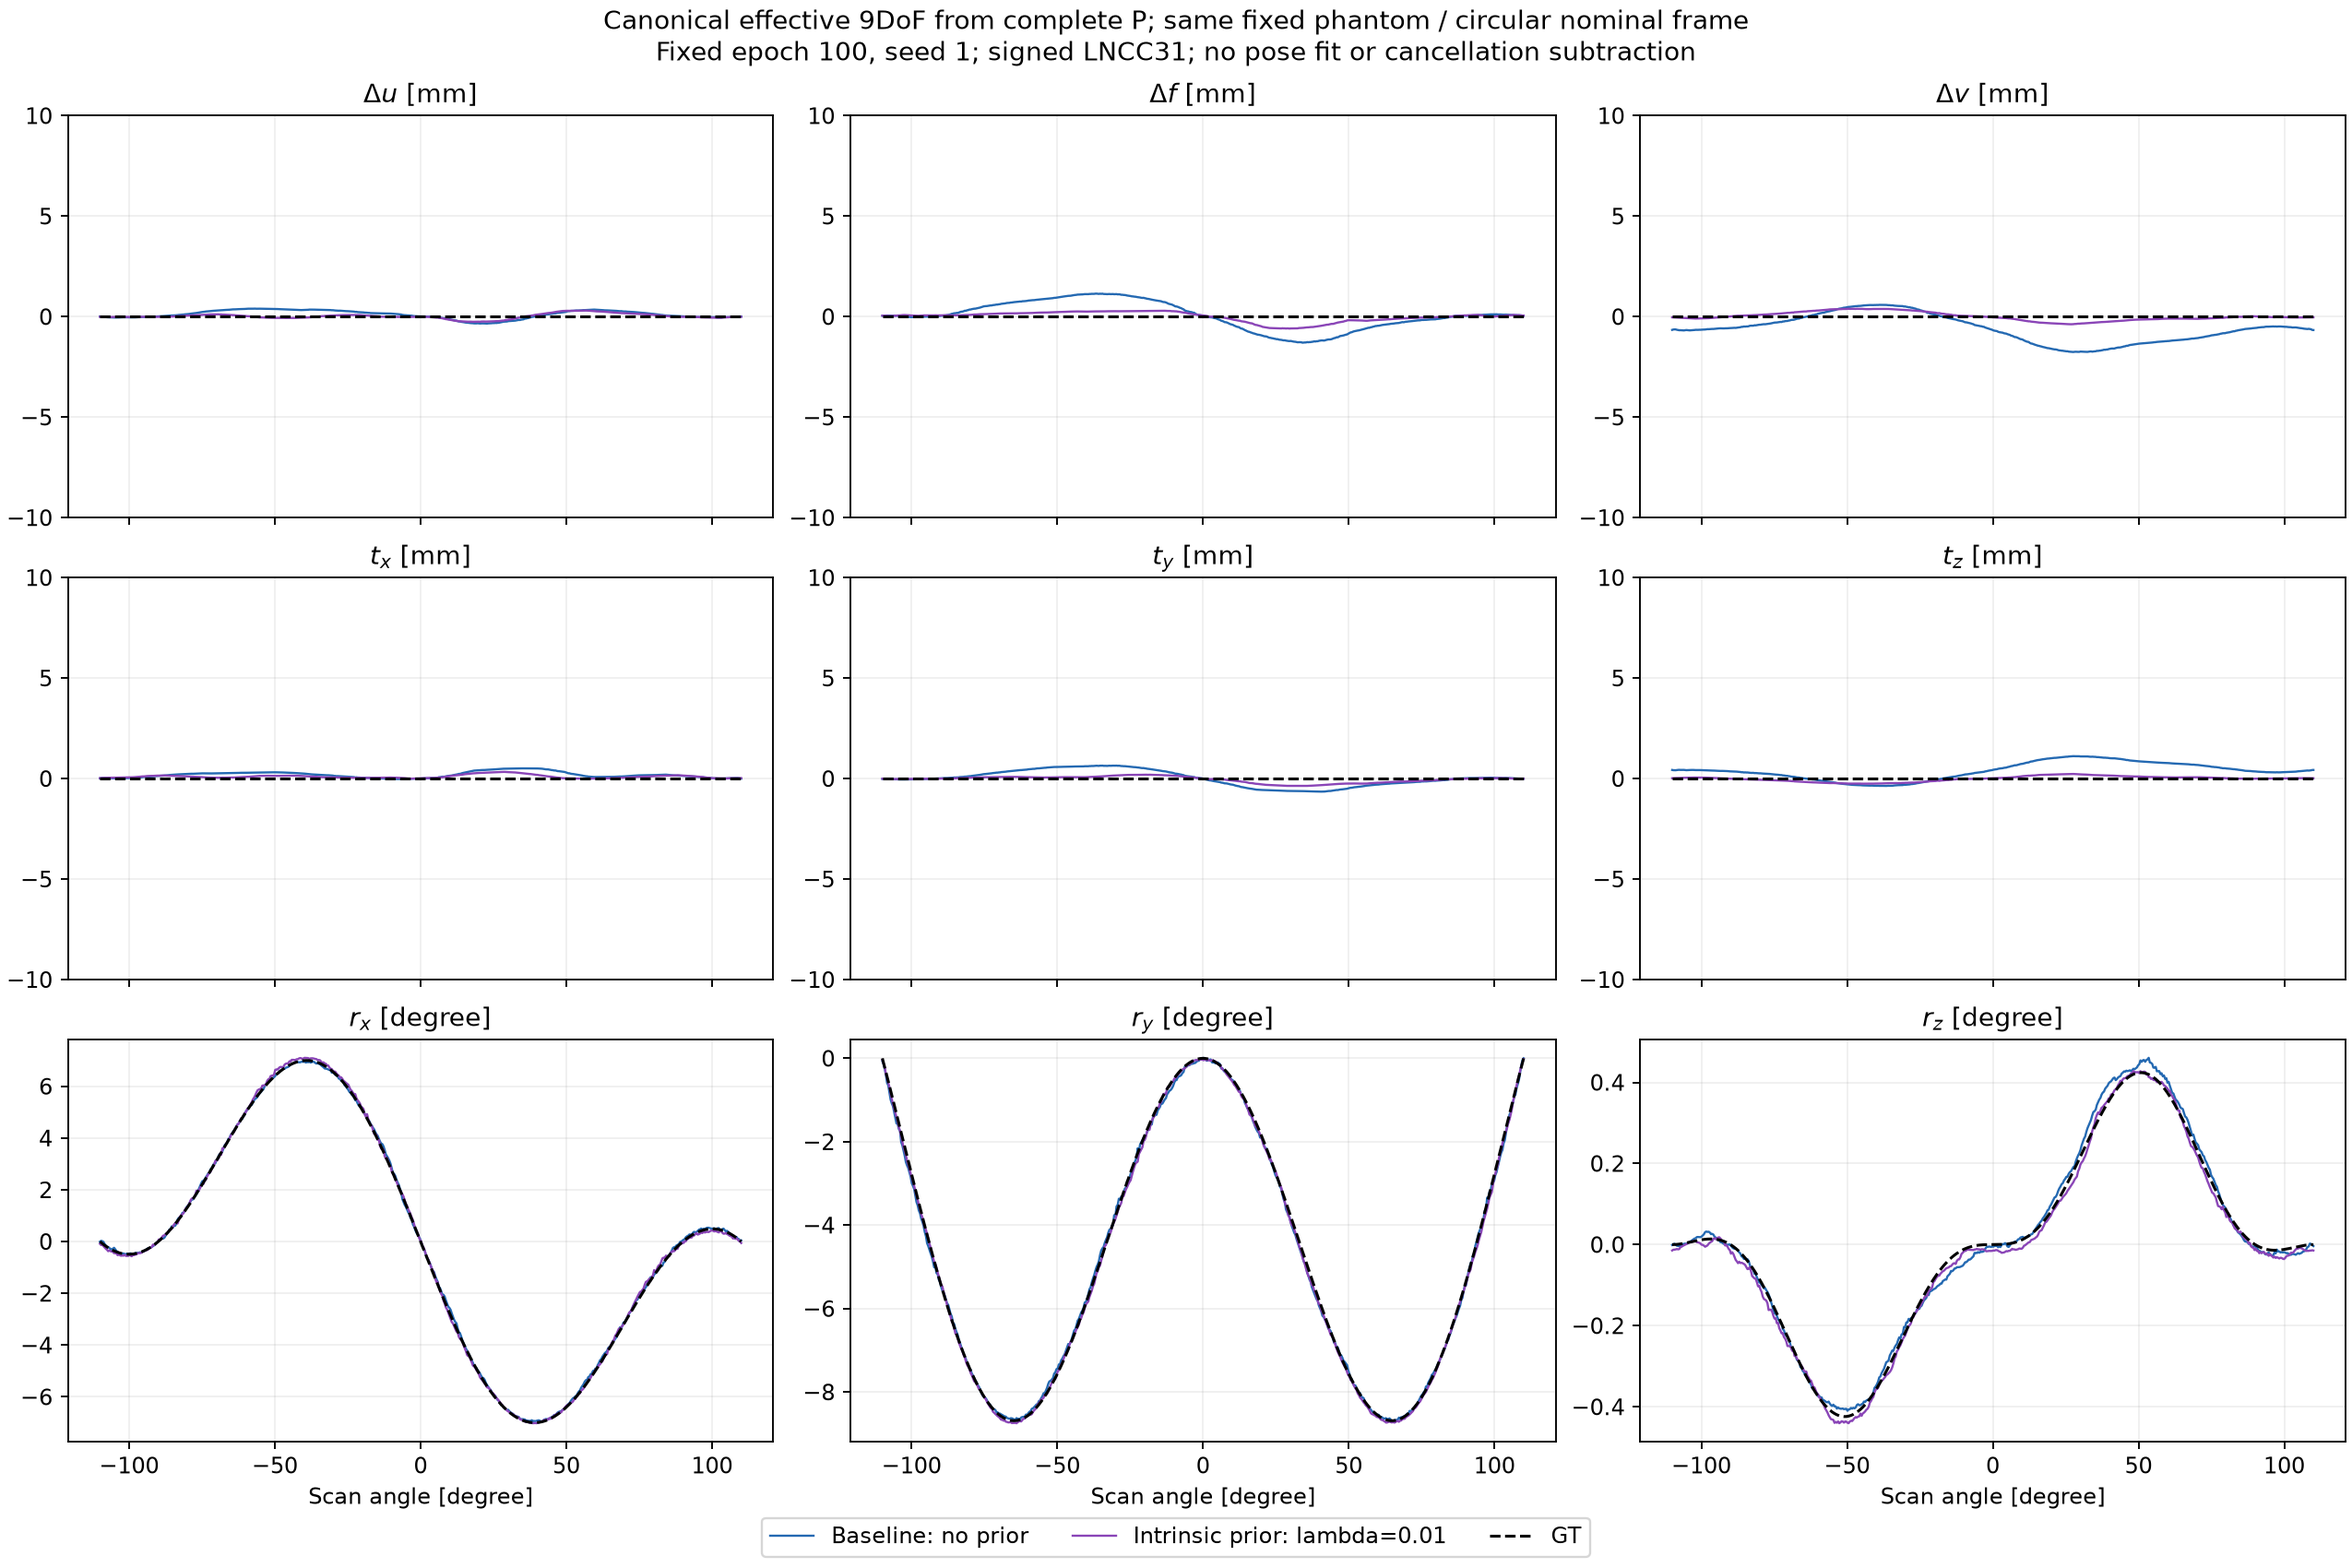
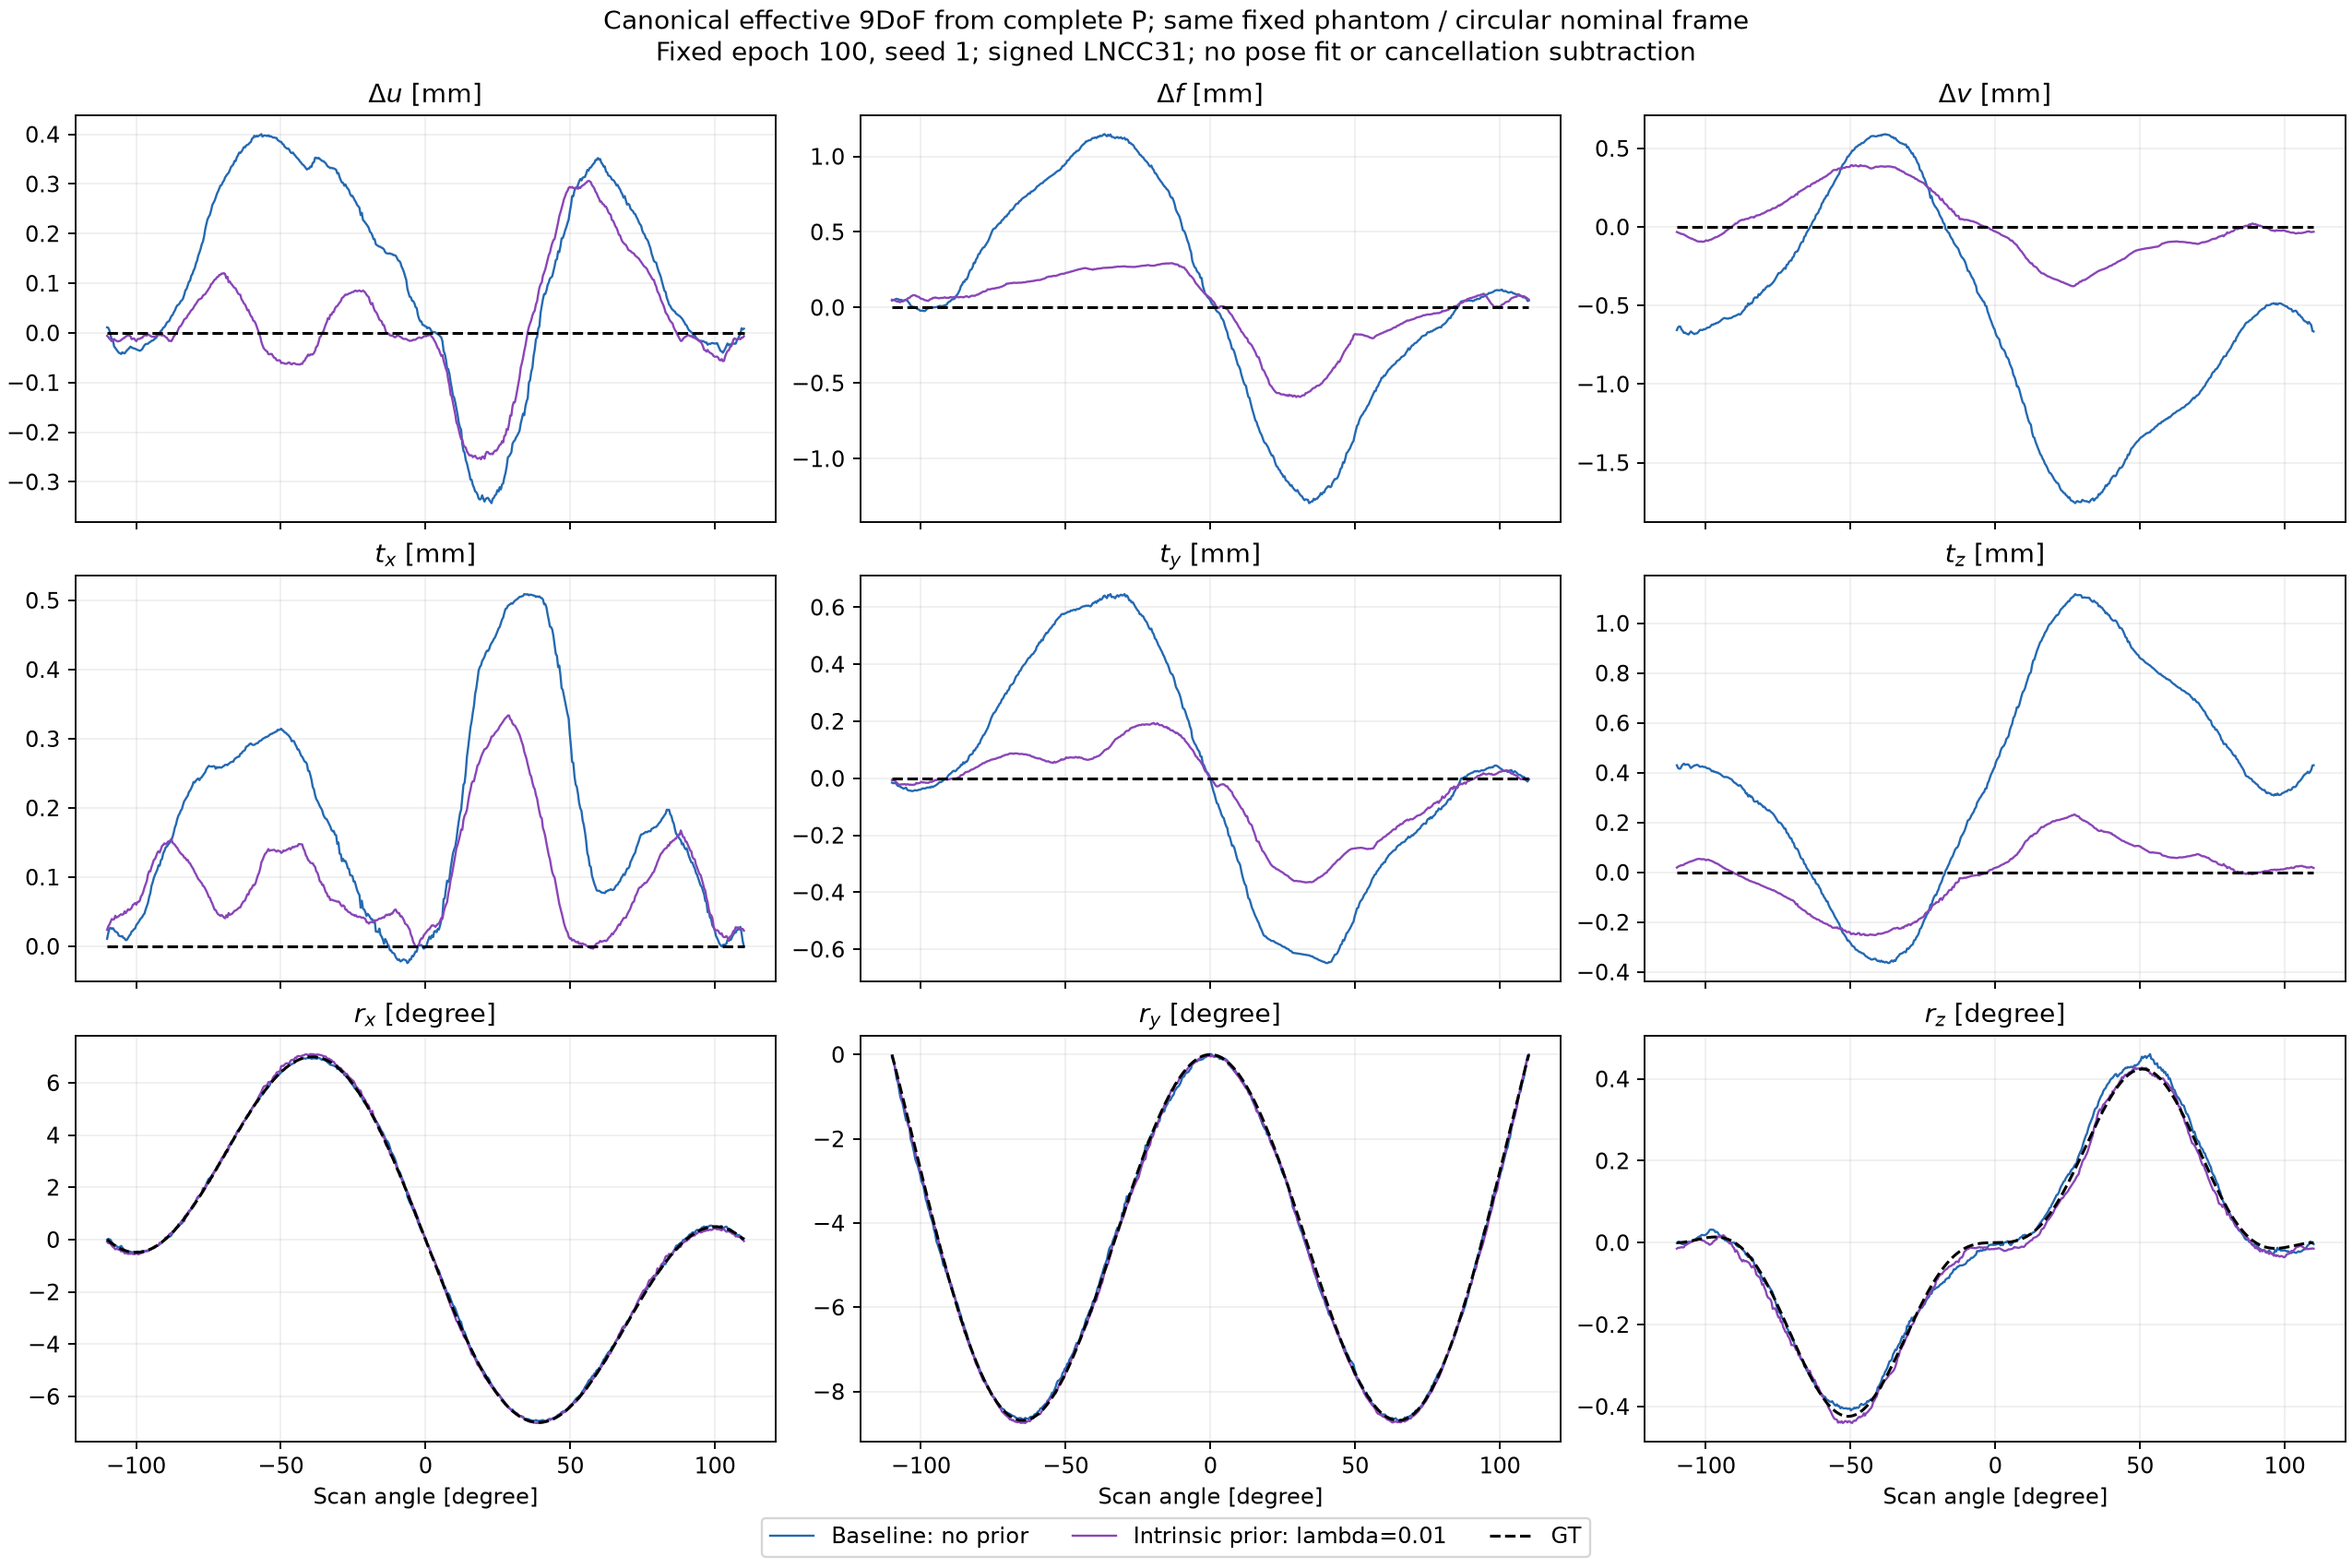
Zoom parameter axes in the regularization comparison

diff --git a/compare_sinespin_regularization.py b/compare_sinespin_regularization.py
@@ -290,7 +290,6 @@ def make_figures(out, theta, arrays, runs):
             ax.plot(theta, arrays[key]['parameters9'][:, j], color=COLORS[key],
                     ls='--' if key == 'truth' else '-', lw=1.3 if key == 'truth' else 1., label=names[key])
         ax.set_title(labels[j]); ax.grid(alpha=.2)
-        if j < 6: ax.set_ylim(-10., 10.); ax.set_yticks([-10., -5., 0., 5., 10.])
         if j >= 6: ax.set_xlabel('Scan angle [degree]')
     handles, text = axes.flat[0].get_legend_handles_labels()
     fig.legend(handles, text, loc='outside lower center', ncol=3)

diff --git a/docs/sinespin_regularization.md b/docs/sinespin_regularization.md
@@ -43,7 +43,7 @@ L  = L_signed_LNCC31 + 0.01 RK
 
 ![규제 전후 canonical 9개 파라미터](sinespin_regularization_parameters9.png)
 
-mm 축 6개는 −10~+10 mm이며, 파랑은 규제 없는 기존 추정, 보라색은 내부 규제 적용, 검정 점선은 GT다.
+mm 축 6개는 각 패널의 GT·규제 전·규제 후 데이터 범위에 맞춰 확대했다. 회전축 범위는 이전 그림 그대로다. 파랑은 규제 없는 기존 추정, 보라색은 내부 규제 적용, 검정 점선은 GT다. 패널마다 세로축 범위가 다르므로 눈금과 단위를 함께 읽어야 한다.
 
 ![소스·투영 오차 및 파라미터 크기 비교](sinespin_regularization_geometry.png)
 
